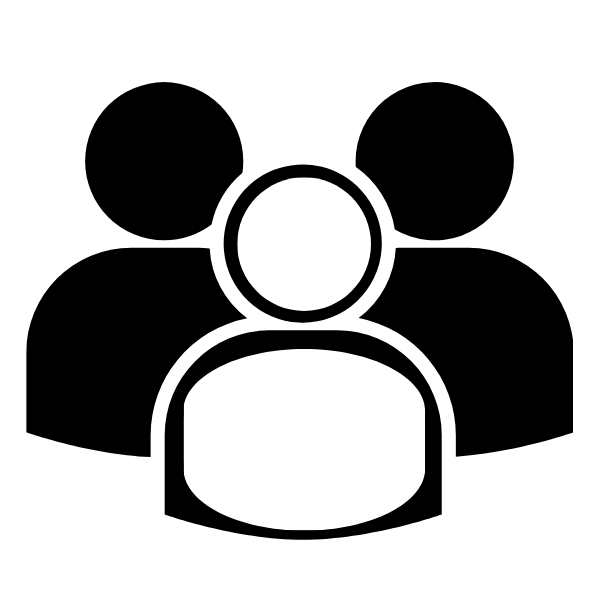
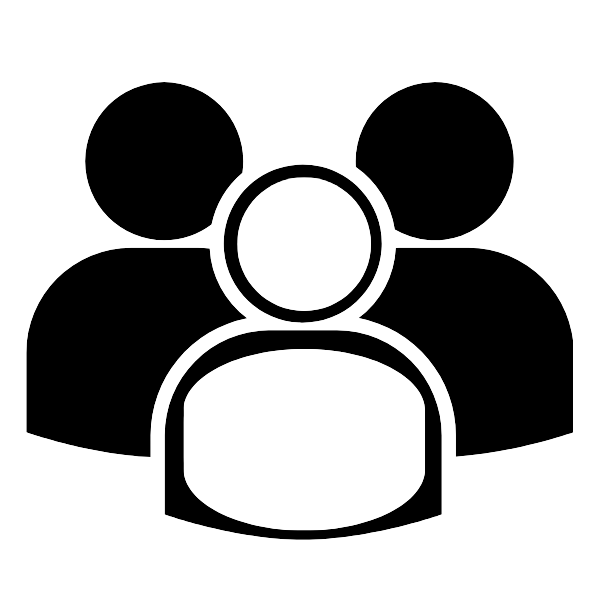
Add unified auth UI, routes, and assets
Introduce a unified authentication UI and wiring: add auth.css and ses.png, remove the old login/signup CSS files, and update resources. Update templates (login, signup) to use the new auth-card layout and auth.css, move/clean up header/footer blocks in base.html, and include navigation in the overview page. In app.py add root route, accept POST on /login and /signup (grabbing form fields) and redirect appropriately, and rename /home route/template to /overview. Minor CSS tweaks to base.css and navigation positioning and a refreshed resources/3.png were also applied.

Changed region(s): [[0.72, 0.39, 0.75, 0.42]]

diff --git a/static/auth.css b/static/auth.css
@@ -1,0 +1,151 @@
+body {
+    padding-left: 0;
+    padding-top: 0;
+    margin: 0;
+    background-color: #545454;
+
+    background-image: linear-gradient(rgba(0, 0, 0, 0.75), rgba(0, 0, 0, 0.75)), url('resources/ses.png');
+    background-size: cover;
+    background-position: center;
+    background-repeat: no-repeat;
+    background-attachment: fixed;
+}
+
+.container {
+    display: flex;
+    justify-content: center;
+    align-items: center;
+    min-height: 100vh;
+    padding: 10px;
+}
+
+.auth-card {
+    background-color: rgba(255, 255, 255, 0.7);
+    backdrop-filter: blur(15px);
+    width: 100%;
+    max-width: 420px;
+    padding: 40px;
+    border-radius: 20px;
+    border: 1px solid #545454;
+    text-align: center;
+    box-shadow: 0 10px 30px rgba(0, 0, 0, 0.2);
+}
+
+.auth-logo {
+    width: 100px;
+    height: 100px;
+}
+
+.auth-header h1 {
+    font-family: Architype-Aubette;
+    font-size: 50px;
+    color: #ffbd59;
+    text-shadow: 2px 2px 2px #545454;
+    margin: 0;
+    letter-spacing: 1px;
+    margin-bottom: 10px;
+}
+
+.auth-header h2 {
+    color: #545454;
+    font-size: 22px;
+    margin-top: 0;
+    margin-bottom: 20px;
+    font-family: 'Poppins-Bold', sans-serif;
+}
+
+.auth-form form {
+    display: flex;
+    flex-direction: column;
+    text-align: left;
+}
+
+.input-group {
+    display: flex;
+    flex-direction: column;
+    margin-bottom: 20px;
+}
+
+.input-group label {
+    color: #545454;
+    font-weight: bold;
+    margin-bottom: 10px;
+}
+
+.input-group input {
+    font-family: Poppins;
+    padding: 15px;
+    border-radius: 10px;
+    border: 0;
+    border-color: #545454;
+    transition: all 0.3s ease;
+}
+
+.input-group input:focus {
+    border-color: #545454;
+    outline: none;
+    box-shadow: 0 5px 15px rgba(0, 0, 0, 0.2)
+}
+
+.input-group input:hover {
+    transform: translateY(-5px);
+    box-shadow: 0 5px 15px rgba(0, 0, 0, 0.2)
+}
+
+.submit button {
+    width: 100%;
+    background-color: #545454;
+    color: white;
+    border: none;
+    padding: 15px;
+    border-radius: 6px;
+    font-family: Poppins, sans-serif;
+    font-size: 16px;
+    font-weight: normal;
+    cursor: pointer;
+    transition: all 0.3s ease;
+    margin-top: 10px;
+    overflow: hidden;
+}
+
+.submit button:hover {
+    font-family: 'Poppins-Bold', sans-serif;
+    background-color: #ffbd59;
+    color: black;
+}
+
+.submit button:focus {
+    outline: none;
+}
+
+.submit button:active {
+    font-family: 'Poppins-Bold', sans-serif;
+    background-color: #ffbd59;
+    color: black;
+
+    transform: scale(0.95);
+}
+
+.auth-footer {
+    margin-top: 20px;
+    font-size: 14px;
+
+}
+
+.auth-footer a {
+    color: #545454;
+    text-decoration: none;
+    transition: all 0.3s ease;
+}
+
+.auth-footer a:hover {
+    color: #ffbd59;
+    font-family: 'Poppins-Bold', sans-serif;
+
+}
+
+.auth-footer a:hover {
+    color: #ffbd59;
+    font-family: 'Poppins-Bold', sans-serif;
+    text-shadow: 2px 2px 2px rgba(0, 0, 0, 0.1);
+}

diff --git a/templates/signup.html b/templates/signup.html
@@ -1,43 +1,44 @@
 {% extends 'base.html' %}
 
 {% block head %}
-    <link rel="stylesheet" href="{{ url_for('static', filename='signup.css') }}"/>
+    <link rel="stylesheet" href="{{ url_for('static', filename='auth.css') }}"/>
 {% endblock %}
+
+{% block header %}{% endblock %}
 
 {% block body %}
     <div class="container">
-        <div class="signup-card">
-            <div class="signup-header">
-                <h1>Welcome to ChattieGrame</h1>
-                <div class="signup-form">
-                    <h2>Signup</h2>
-                    <form action="/signup" method="post">
-                        <div class="email-input">
-                            <label>Email</label>
-                            <input type="email" placeholder="Email" required>
-                        </div>
-                        <div class="password-input">
-                            <label>Password</label>
-                            <input type="password" placeholder="Password" required>
-                        </div>
-                        <div class="submit">
-                            <button type="submit">Signup</button>
-                        </div>
-                    </form>
-                    <div class="signup-footer">
-                        <a href="/login">Login</a>
+        <div class="auth-card">
+            <div class="auth-header">
+                <img src="{{ url_for('static', filename='resources/chattiegrameicon.ico') }}"  class="auth-logo">
+                <h1>CHATTIEGRAME</h1>
+                <h2>Create a New Account</h2>
+            </div>
+            <div class="auth-form">
+                <form action="/signup" method="post">
+                    <div class="input-group">
+                        <label>Name</label>
+                        <input type="text" placeholder="Your name" required>
                     </div>
 
+                    <div class="input-group">
+                        <label>Email</label>
+                        <input type="email" placeholder="Enter your email" required>
+                    </div>
+
+                    <div class="input-group">
+                        <label>Password</label>
+                        <input type="password" placeholder="At least 8 characters" minlength="8" required>
+                    </div>
+
+                    <div class="submit">
+                        <button type="submit">Create Account</button>
+                    </div>
+                </form>
+                <div class="auth-footer">
+                    <a href="/login">I already have an account.</a>
                 </div>
             </div>
         </div>
-
-
-    </div>
-    {% include 'navigation.html' %}
-    <div class ="footer-basic">
-        <footer>
-            <p class ="copyright">cgalabrador128 & Geromeeee © 2026</p>
-        </footer>
     </div>
 {% endblock %}

diff --git a/templates/login.html b/templates/login.html
@@ -1,41 +1,37 @@
 {% extends 'base.html' %}
 
 {% block head %}
-    <link rel="stylesheet" href="{{ url_for('static', filename='login.css') }}"/>
+    <link rel="stylesheet" href="{{ url_for('static', filename='auth.css') }}"/>
 {% endblock %}
+
+{% block header %}{% endblock %}
 
 {% block body %}
     <div class="container">
-        <div class="signup-card">
-            <div class="signup-header">
-                <h1>Welcome to ChattieGrame</h1>
-                <div class="signup-form">
-                    <h2>Login</h2>
-                    <form action="/login" method="post">
-                        <div class="email-input">
-                            <label>Email</label>
-                            <input type="email" placeholder="Email" required>
-                        </div>
-                        <div class="password-input">
-                            <label>Password</label>
-                            <input type="password" placeholder="Password" required>
-                        </div>
-                        <div class="submit">
-                            <button type="submit">Login</button>
-                        </div>
-                    </form>
-                    <div class="login-footer">
-                        <a href="/signup">Sign up</a>
+        <div class="auth-card">
+            <div class="auth-header">
+                <img src="{{ url_for('static', filename='resources/chattiegrameicon.ico') }}"class="auth-logo">
+                <h1>CHATTIEGRAME</h1>
+                <h2>Welcome!</h2>
+            </div>
+            <div class="auth-form">
+                <form action="/login" method="post">
+                    <div class="input-group">
+                        <label>Email</label>
+                        <input type="email" placeholder="Enter your email" required>
                     </div>
-
+                    <div class="input-group">
+                        <label>Password</label>
+                        <input type="password" placeholder="Enter your password" required>
+                    </div>
+                    <div class="submit">
+                        <button type="submit">Login Account</button>
+                    </div>
+                </form>
+                <div class="auth-footer">
+                    <a href="/signup">I do not have an account yet.</a>
                 </div>
             </div>
         </div>
-    </div>
-{% include 'navigation.html' %}
-    <div class ="footer-basic">
-        <footer>
-            <p class ="copyright">cgalabrador128 & Geromeeee © 2026</p>
-        </footer>
     </div>
 {% endblock %}

diff --git a/templates/base.html b/templates/base.html
@@ -10,16 +10,18 @@
     {% block head %}{% endblock %}
 </head>
 <body>
-    <div id ="header">
-        <img src ='{{ url_for('static', filename='resources/chattiegrameicon.ico') }}' id="icon">
+{% block header %}
+    <div id="header">
+        <img src='{{ url_for('static', filename='resources/chattiegrameicon.ico') }}' id="icon">
         <h1>CHATTIEGRAME</h1>
     </div>
-    <!--{% include 'navigation.html' %}-->
-    {% block body %}{% endblock %}
-    <div class ="footer-basic">
-        <footer>
-            <p class ="copyright">cgalabrador128 & Geromeeee © 2026</p>
-        </footer>
-    </div>
+{% endblock %}
+<!--{% include 'navigation.html' %}-->
+{% block body %}{% endblock %}
+<div class="footer-basic">
+    <footer>
+        <p class="copyright">cgalabrador128 & Geromeeee © 2026</p>
+    </footer>
+</div>
 </body>
 </html>

diff --git a/templates/overview.html b/templates/overview.html
@@ -16,3 +16,4 @@ Sed id sapien venenatis, pretium justo consequat, laoreet risus. Etiam condiment
 Nulla dictum fringilla enim, nec lacinia ante euismod vel. Maecenas metus leo, porta sed malesuada in, vulputate nec neque. Mauris euismod eget sapien ut fermentum. Pellentesque pellentesque eu ligula vel auctor. Etiam mollis tincidunt eros vitae ultricies. Vivamus felis nisl, rhoncus ac faucibus vitae, varius at elit. Ut a orci porta, sodales justo non, commodo ligula. Phasellus volutpat odio metus, sed suscipit mi convallis id. Morbi non tincidunt mauris. Lorem ipsum dolor sit amet, consectetur adipiscing elit.
 </p>
 {% endblock %}
+{% include 'navigation.html' %}

diff --git a/static/base.css b/static/base.css
@@ -7,6 +7,7 @@
     width:100%;
     margin:0;
     top:0;
+    left: 0;
 }
 
 #icon{
@@ -23,7 +24,7 @@
     color:white;
     text-shadow: 2px 2px 2px black;
     position:fixed;
-    left: 43px;
+    left: 50px;
     top: 0.5vh;
     margin: 0;
     letter-spacing: 1px;

diff --git a/static/navigation.css b/static/navigation.css
@@ -4,8 +4,8 @@ nav {
     height:100%;
     width:120px;
     margin:0;
-    margin-top: -15px;
-    padding: 0;
+    margin-top: 25px;
+    left: 0;
     position:fixed;
     overflow: hidden;
 }

diff --git a/app.py b/app.py
@@ -1,20 +1,32 @@
-from flask import Flask, render_template
+from flask import Flask, render_template, request, redirect, url_for
 
 from datetime import datetime
 
 app = Flask(__name__)
 
-@app.route('/login')
+
+@app.route('/')
+@app.route('/login', methods=['GET', 'POST'])
 def login():
+    if request.method == 'POST':
+        email = request.form.get('email')
+        password = request.form.get('password')
+        return redirect(url_for('home'))
     return render_template('login.html')
 
-@app.route('/signup')
+@app.route('/signup', methods=['GET', 'POST'])
 def signup():
-    return render_template('signup.html')
-@app.route('/home')
-def home():
-    return render_template('home.html')
+    if request.method == 'POST':
+        name = request.form.get('name')
+        email = request.form.get('email')
+        password = request.form.get('password')
+        return redirect(url_for('login'))
 
+    return render_template('signup.html')
+
+@app.route('/overview')
+def overview():
+    return render_template('overview.html')
 
 if __name__ == '__main__':
     app.run(debug=True)
